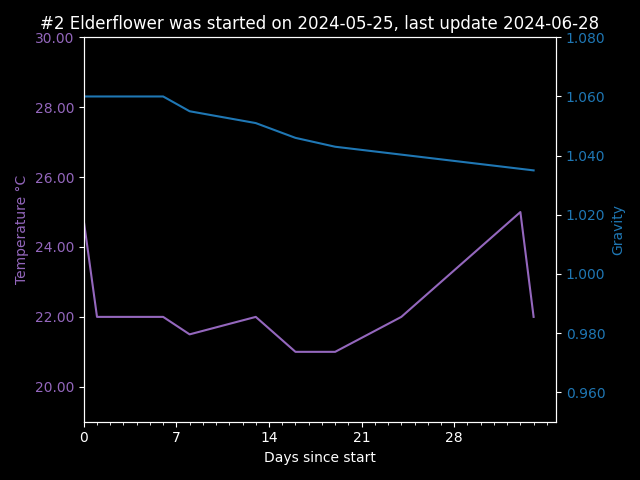
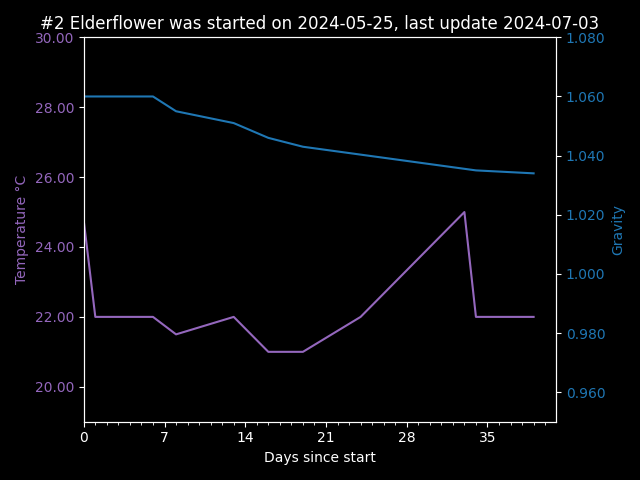
2024-07-03

diff --git a/mead.py b/mead.py
@@ -20,7 +20,7 @@ class Mead:
     """
 
     def __init__(self, abv: float = None, final_gravity: float = None, start_gravity: float = None,
-                 product_weight=5.0, step_feeding=False, step_feed_mix_ratio: float = 1):
+                 product_weight=5.0, step_feeding=False, step_feed_mix_ratio: float = None):
         """
         Describes the initial data about a Mead recipe.
 
@@ -86,7 +86,7 @@ class Mead:
 
         self.honey_gravity = 1.43
 
-        self.step_feed_ratio = max(0.0, step_feed_mix_ratio)
+        self.step_feed_ratio = max(0.0, step_feed_mix_ratio or 1)
 
         self.product_weight = product_weight
         self.kg_water = None
@@ -98,7 +98,8 @@ class Mead:
         self.initial_nitrogen: NitrogenSource = nitrogen_source["Honey"].with_quantity(0)
         self.nitrogen_sources: list[NitrogenSource] = list()
 
-    def step_feeding_setup(self, upper_grav_limit: float = None, lower_grav_limit: float = None):
+    def step_feeding_setup(self, upper_grav_limit: float = None, lower_grav_limit: float = None,
+                           step_feed_mix_ratio: float = None):
         """
         This function will aim to keep the estimated gravity between the upper and lower bounds for your mead.
 
@@ -112,6 +113,7 @@ class Mead:
             raise UserWarning("High ABV warning, use step_feed_mix_ratio below 0.5")
         self.upper_grav_limit = upper_grav_limit or self.upper_grav_limit
         self.lower_grav_limit = lower_grav_limit or self.lower_grav_limit
+        self.step_feed_ratio = max(0.0,  step_feed_mix_ratio or self.step_feed_ratio)
 
         if self.lower_grav_limit > self.upper_grav_limit:
             raise Exception("Upper gravity limit must be more than Lower gravity limit")

diff --git a/Recipe List/#4 Orange and Chilli.md b/Recipe List/#4 Orange and Chilli.md
@@ -33,7 +33,7 @@ Yeast Food:
         - a small reaction, I think this is going to be a slower brew, possibly due to the chilli?
 - feed #3
     - Fermaid O: 3 grams at addition of Honey - at or below 1.050 grav
-      - Done 2024-07-03
+        - Done 2024-07-03
 
 ## Expectations
 
@@ -49,24 +49,24 @@ Yeast Food:
 
 <h2>Fermentation Data</h2>
 
-| Date       | Temperature  °C | Gravity | PH  | Notes |
-|------------|-----------------|---------|-----|-------|
-| 2024-06-23 | 23.00           | 1.065   |     |       |
-| 2024-06-24 | 24.00           |         |     |       |
-| 2024-06-25 | 24.00           |         |     |       |
-| 2024-06-27 | 25.00           |         |     |       |
-| 2024-06-28 | 22.00           | 1.056   |     |       |
-| 2024-06-30 | 24.00           | 1.035   |     |       |
-| 2024-07-01 | 23.00           |         |     |       |
-| 2024-07-03 | 22.00           |         |     |       |
-|            |                 |         |     |       |
-|            |                 |         |     |       |
-|            |                 |         |     |       |
-|            |                 |         |     |       |
-|            |                 |         |     |       |
-|            |                 |         |     |       |
-|            |                 |         |     |       |
-|            |                 |         |     |       |
+| Date       | Temperature  °C | Gravity | PH  | Notes                     |
+|------------|-----------------|---------|-----|---------------------------|
+| 2024-06-23 | 23.00           | 1.065   |     |                           |
+| 2024-06-24 | 24.00           |         |     |                           |
+| 2024-06-25 | 24.00           |         |     |                           |
+| 2024-06-27 | 25.00           |         |     |                           |
+| 2024-06-28 | 22.00           | 1.056   |     |                           |
+| 2024-06-30 | 24.00           | 1.035   |     |                           |
+| 2024-07-01 | 23.00           | 1.073   |     | Estimated blended gravity |
+| 2024-07-03 | 22.00           |         |     |                           |
+|            |                 |         |     |                           |
+|            |                 |         |     |                           |
+|            |                 |         |     |                           |
+|            |                 |         |     |                           |
+|            |                 |         |     |                           |
+|            |                 |         |     |                           |
+|            |                 |         |     |                           |
+|            |                 |         |     |                           |
 
 ![#4 Orange and Chilli.png](%234%20Orange%20and%20Chilli.png)
 
@@ -74,7 +74,7 @@ notes:
 
 - 2024-06-24 aerated for 3 minutes with a drill attachment
 - 2024-06-25 aerated again, likely for the final time
-- 2024-06-30 added honey #2, 5 mins of swirling got some of it into suspension, need a better plan for next time 
+- 2024-06-30 added honey #2, 5 mins of swirling got some of it into suspension, need a better plan for next time
 
 ```
 Mead Calculation for 4.75 litres of product

diff --git a/Recipe List/#3 Mojito.md b/Recipe List/#3 Mojito.md
@@ -52,24 +52,24 @@ Yeast Food:
 
 <h2>Fermentation Data</h2>
 
-| Date       | Temperature  °C | Gravity | PH  | Notes |
-|------------|-----------------|---------|-----|-------|
-| 2024-06-23 | 23.00           | 1.094   |     |       |
-| 2024-06-24 | 24.00           |         |     |       |
-| 2024-06-25 | 24.00           |         |     |       |
-| 2024-06-27 | 25.00           |         |     |       |
-| 2024-06-28 | 22.00           | 1.052   |     |       |
-| 2024-06-30 | 24.00           | 1.038   |     |       |
-| 2024-07-01 | 23.00           |         |     |       |
-| 2024-07-03 | 22.00           |         |     |       |
-|            |                 |         |     |       |
-|            |                 |         |     |       |
-|            |                 |         |     |       |
-|            |                 |         |     |       |
-|            |                 |         |     |       |
-|            |                 |         |     |       |
-|            |                 |         |     |       |
-|            |                 |         |     |       |
+| Date       | Temperature  °C | Gravity | PH  | Notes                     |
+|------------|-----------------|---------|-----|---------------------------|
+| 2024-06-23 | 23.00           | 1.094   |     |                           |
+| 2024-06-24 | 24.00           |         |     |                           |
+| 2024-06-25 | 24.00           |         |     |                           |
+| 2024-06-27 | 25.00           |         |     |                           |
+| 2024-06-28 | 22.00           | 1.052   |     |                           |
+| 2024-06-30 | 24.00           | 1.038   |     |                           |
+| 2024-07-01 | 23.00           | 1.087   |     | Estimated blended gravity |
+| 2024-07-03 | 22.00           |         |     |                           |
+|            |                 |         |     |                           |
+|            |                 |         |     |                           |
+|            |                 |         |     |                           |
+|            |                 |         |     |                           |
+|            |                 |         |     |                           |
+|            |                 |         |     |                           |
+|            |                 |         |     |                           |
+|            |                 |         |     |                           |
 
 ![#3 Mojito.png](%233%20Mojito.png)
 
